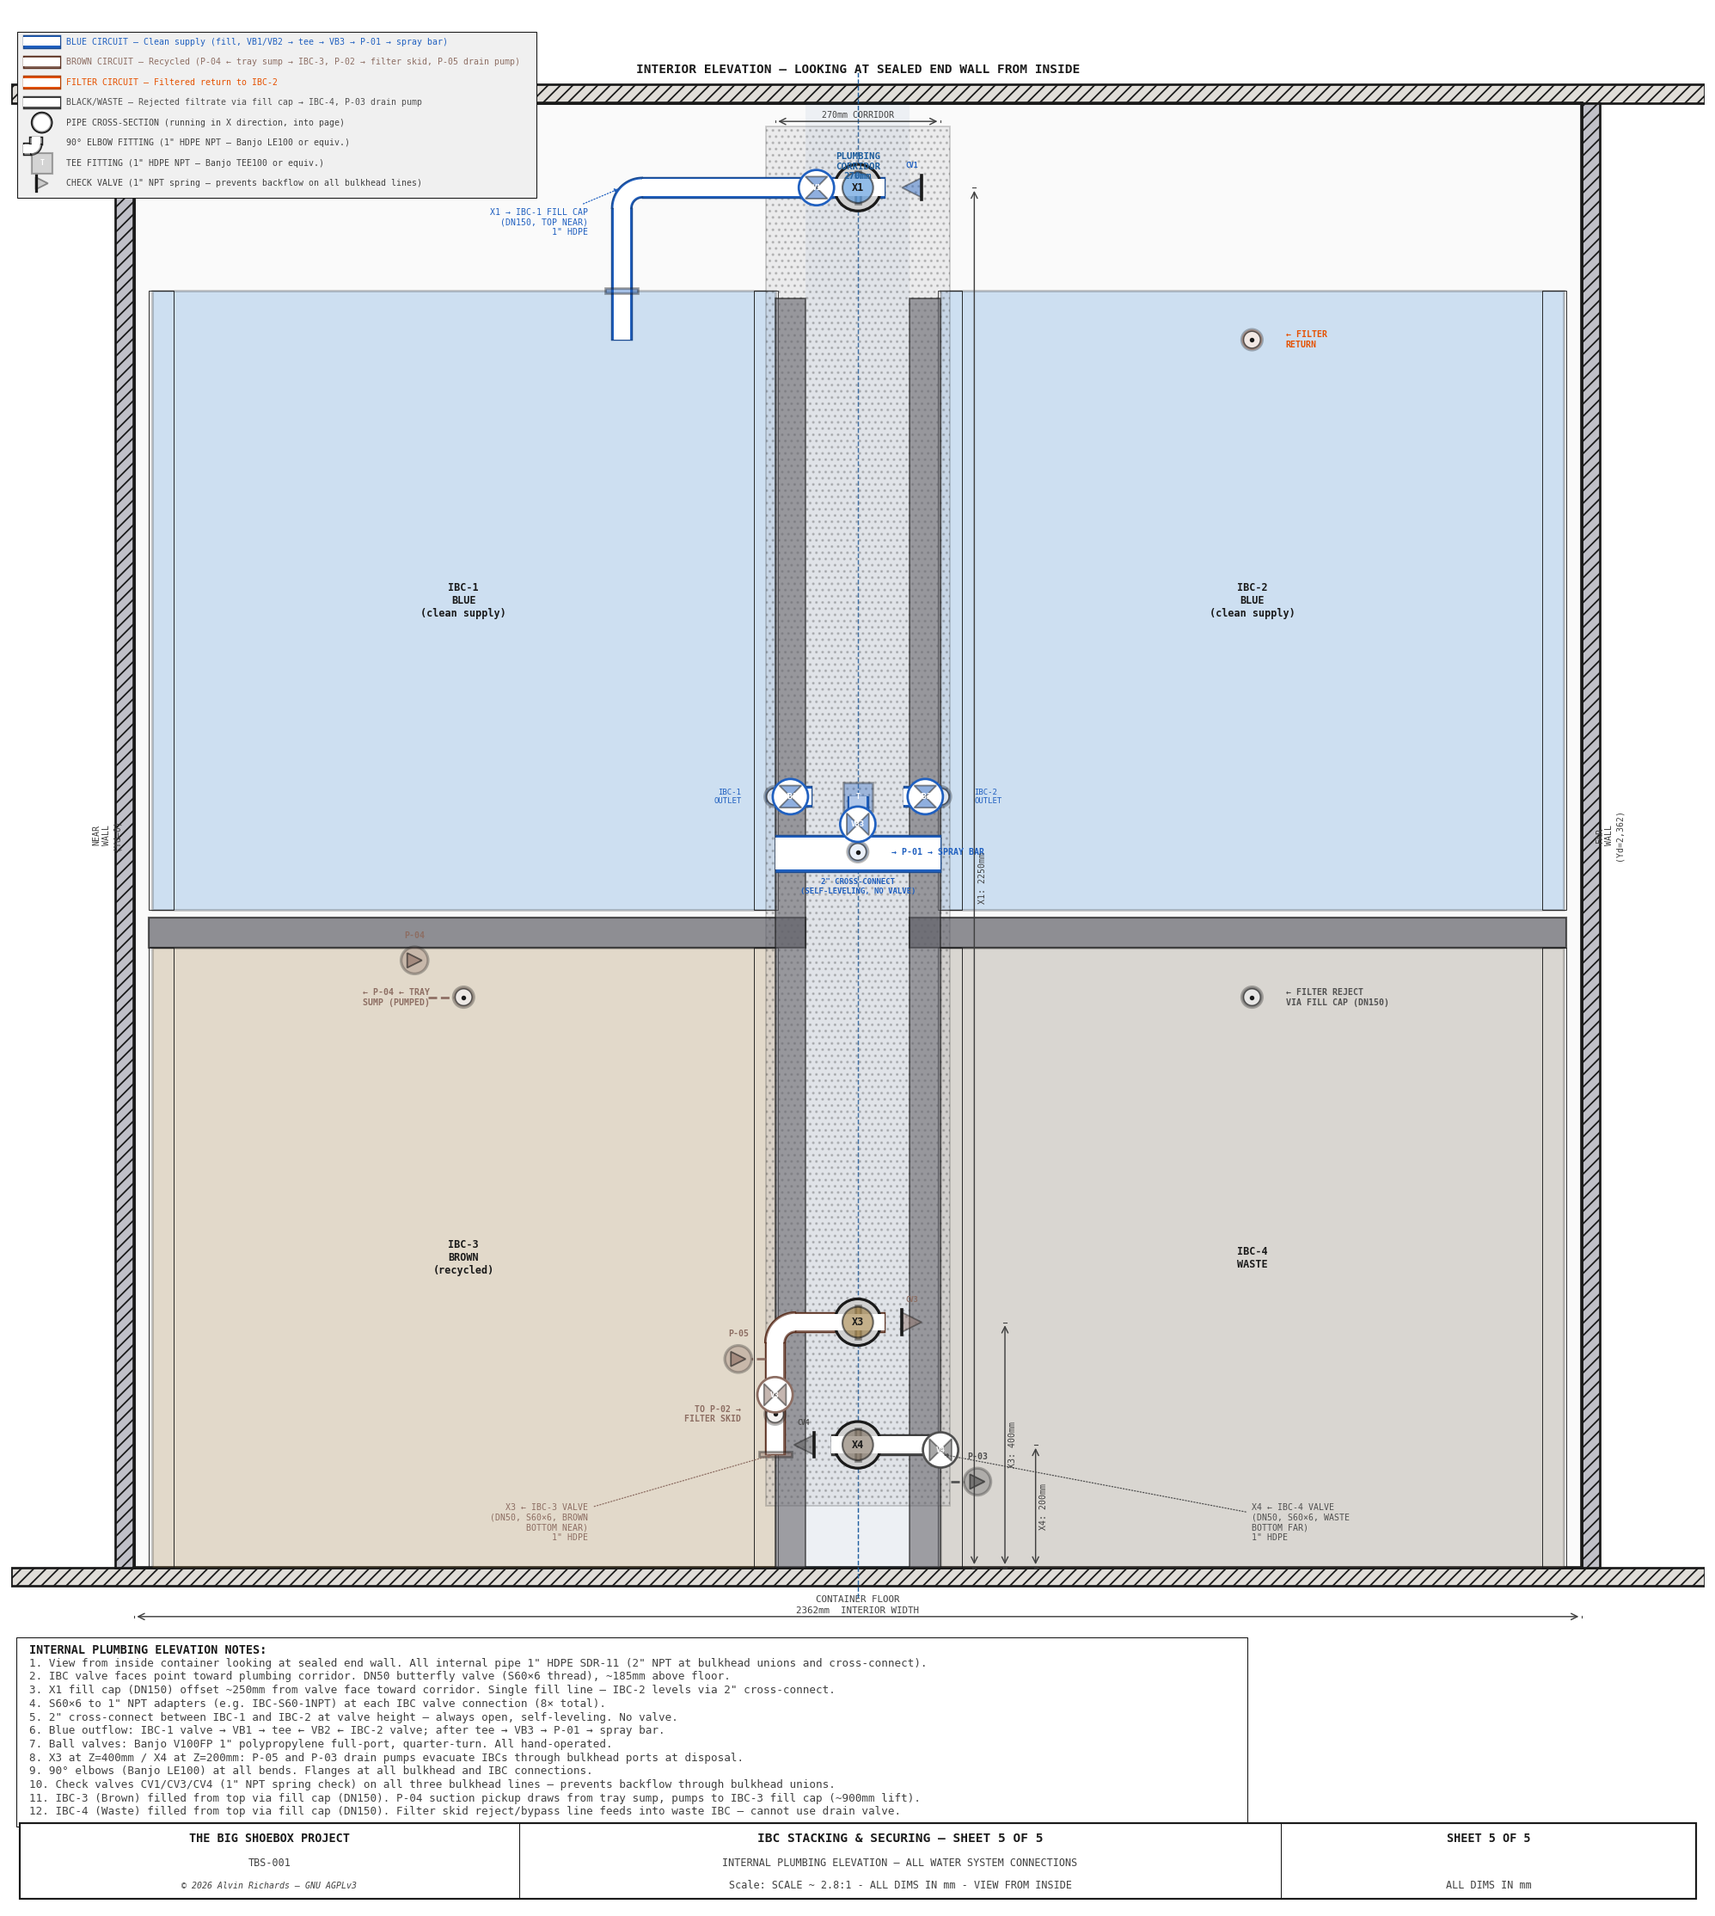
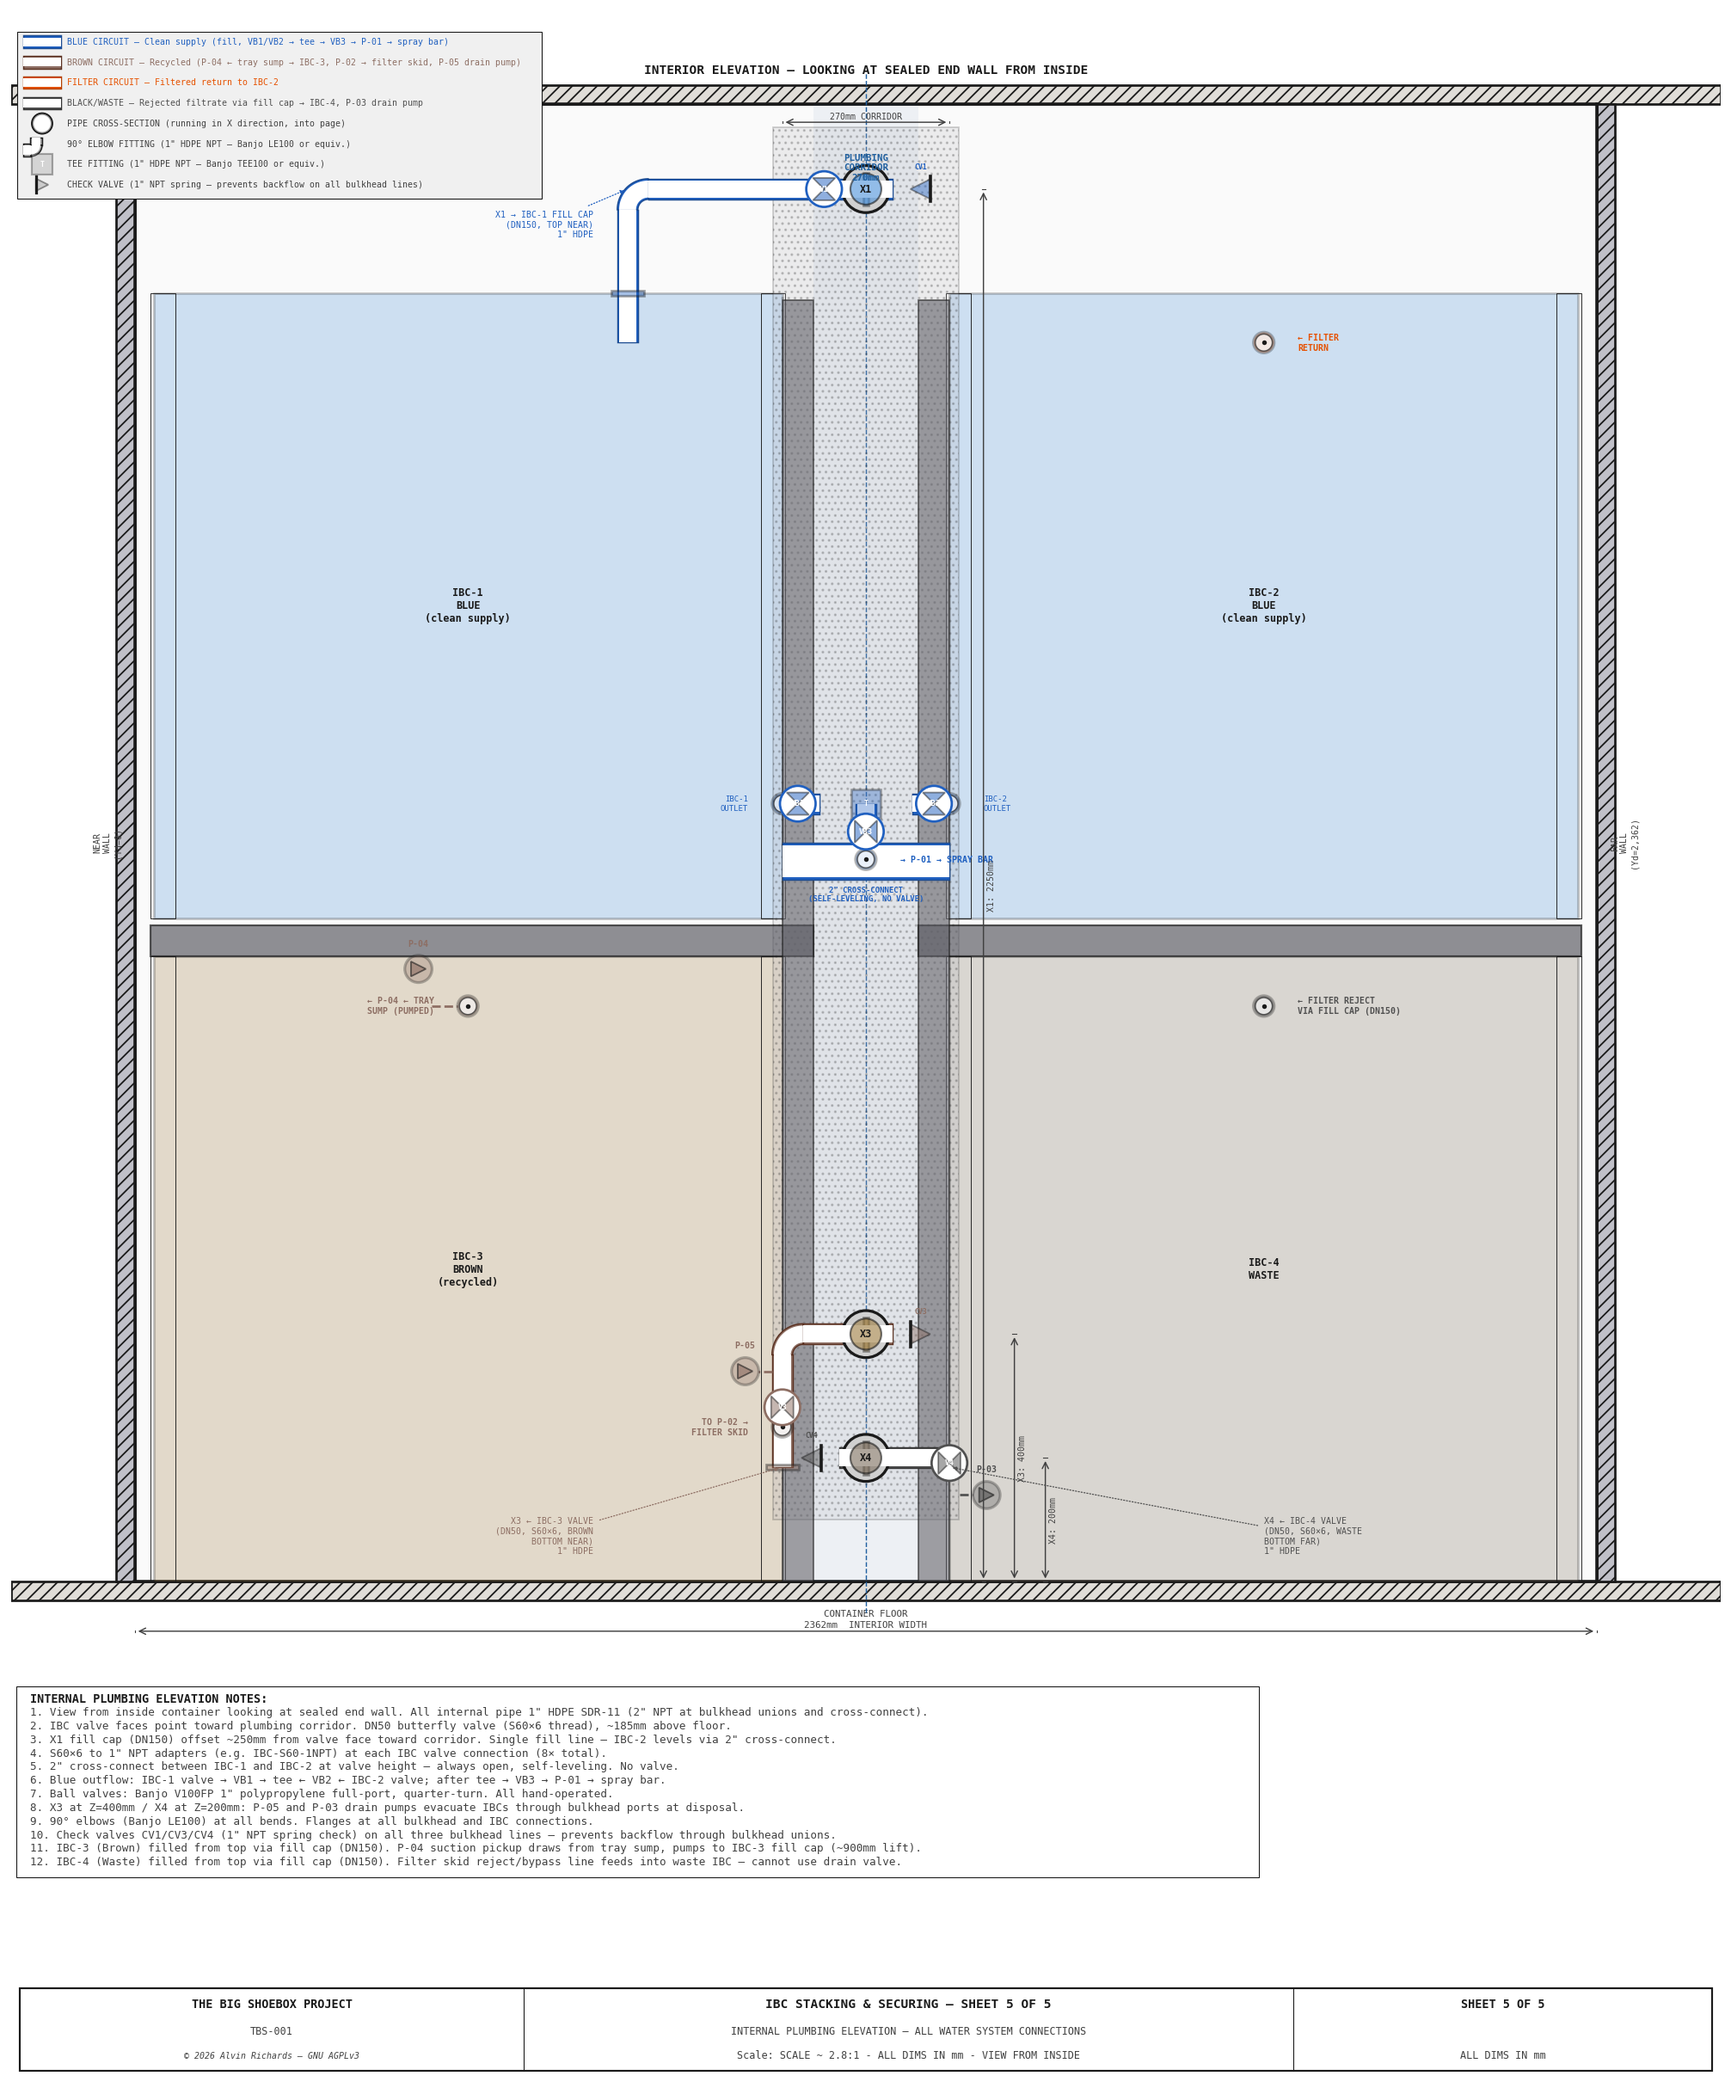
IBC stacking sheet 5: enlarge page for notes, move diagram up
Increase Z_LO from -550 to -800 and figsize from (20,22) to (20,24)
to add room below the diagram. Move notes y_top from the old Z_LO-
relative position to Z=-180mm, giving 100mm clearance below dims and
179mm above the title block. Fixes notes/title overlap.

diff --git a/generate_ibc_stacking_diagram.py b/generate_ibc_stacking_diagram.py
@@ -1768,10 +1768,10 @@ def sheet5():
     # ── Layout bounds ────────────────────────────────────────────────────────
     YD_LO = -200
     YD_HI = C_WID + 200
-    Z_LO  = -550
+    Z_LO  = -800
     Z_HI  = C_HGT + 150
 
-    fig, ax = plt.subplots(figsize=(20, 22))
+    fig, ax = plt.subplots(figsize=(20, 24))
     fig.patch.set_facecolor(BG)
     ax.set_facecolor(BG)
     ax.set_xlim(sx(YD_LO), sx(YD_HI))
@@ -2259,7 +2259,7 @@ def sheet5():
         "11. IBC-3 (Brown) filled from top via fill cap (DN150). P-04 suction pickup draws from tray sump, pumps to IBC-3 fill cap (~900mm lift).",
         "12. IBC-4 (Waste) filled from top via fill cap (DN150). Filter skid reject/bypass line feeds into waste IBC — cannot use drain valve.",
     ]
-    draw_notes(ax, notes, sx(YD_LO + 30), sy(Z_LO + 425), spacing=sy(22),
+    draw_notes(ax, notes, sx(YD_LO + 30), sy(-180), spacing=sy(22),
                fs=7, font=FONT, width=5500)
 
     # ── Title block ──────────────────────────────────────────────────────────
